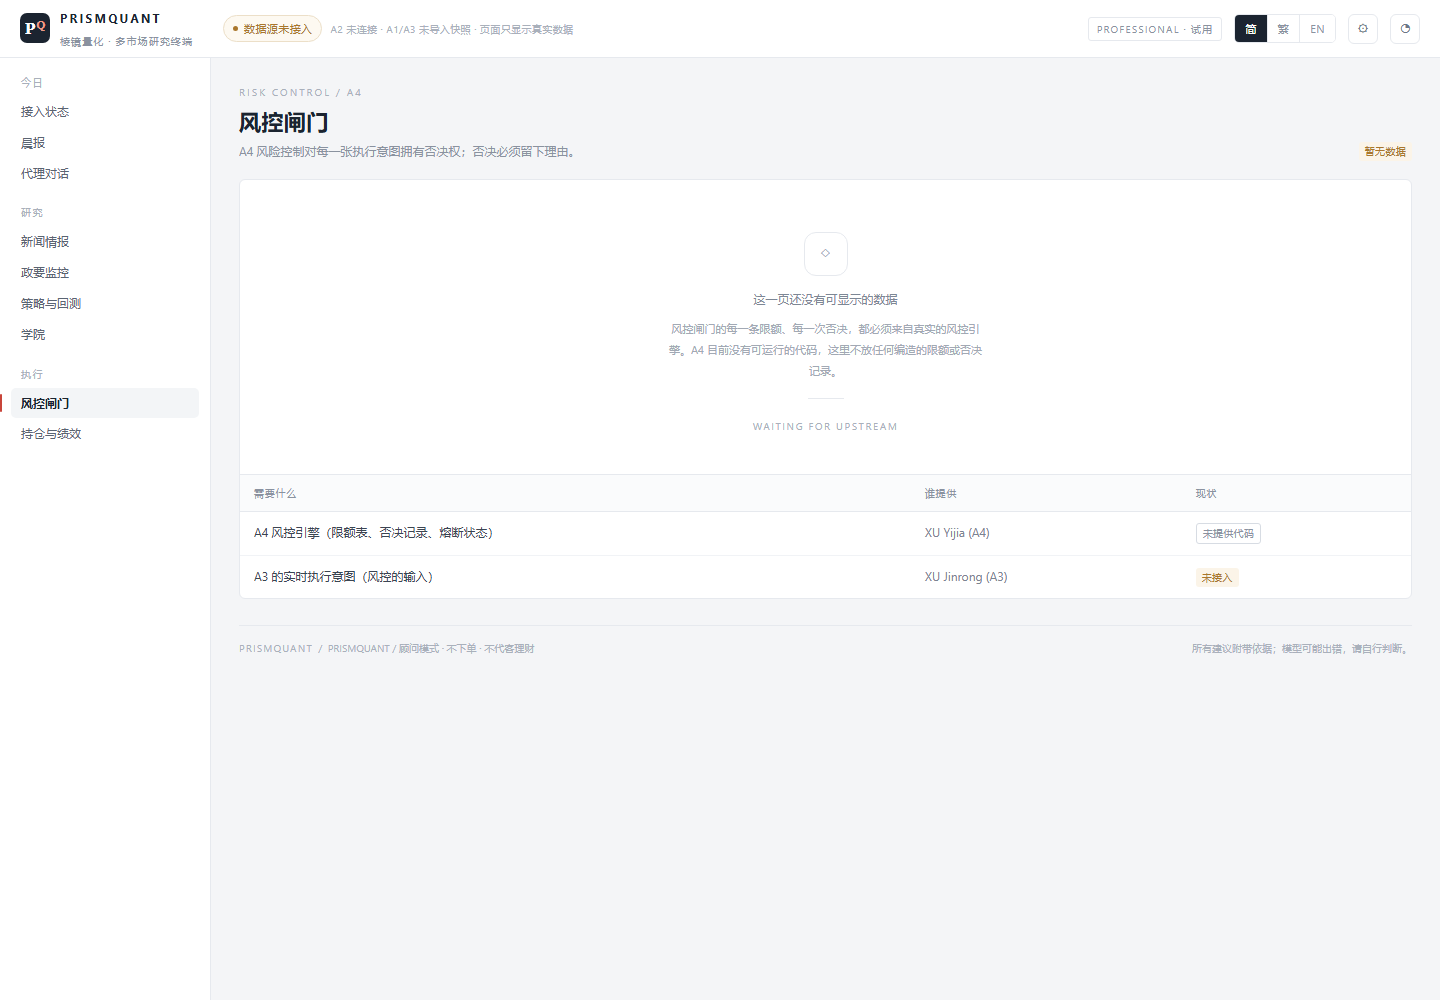
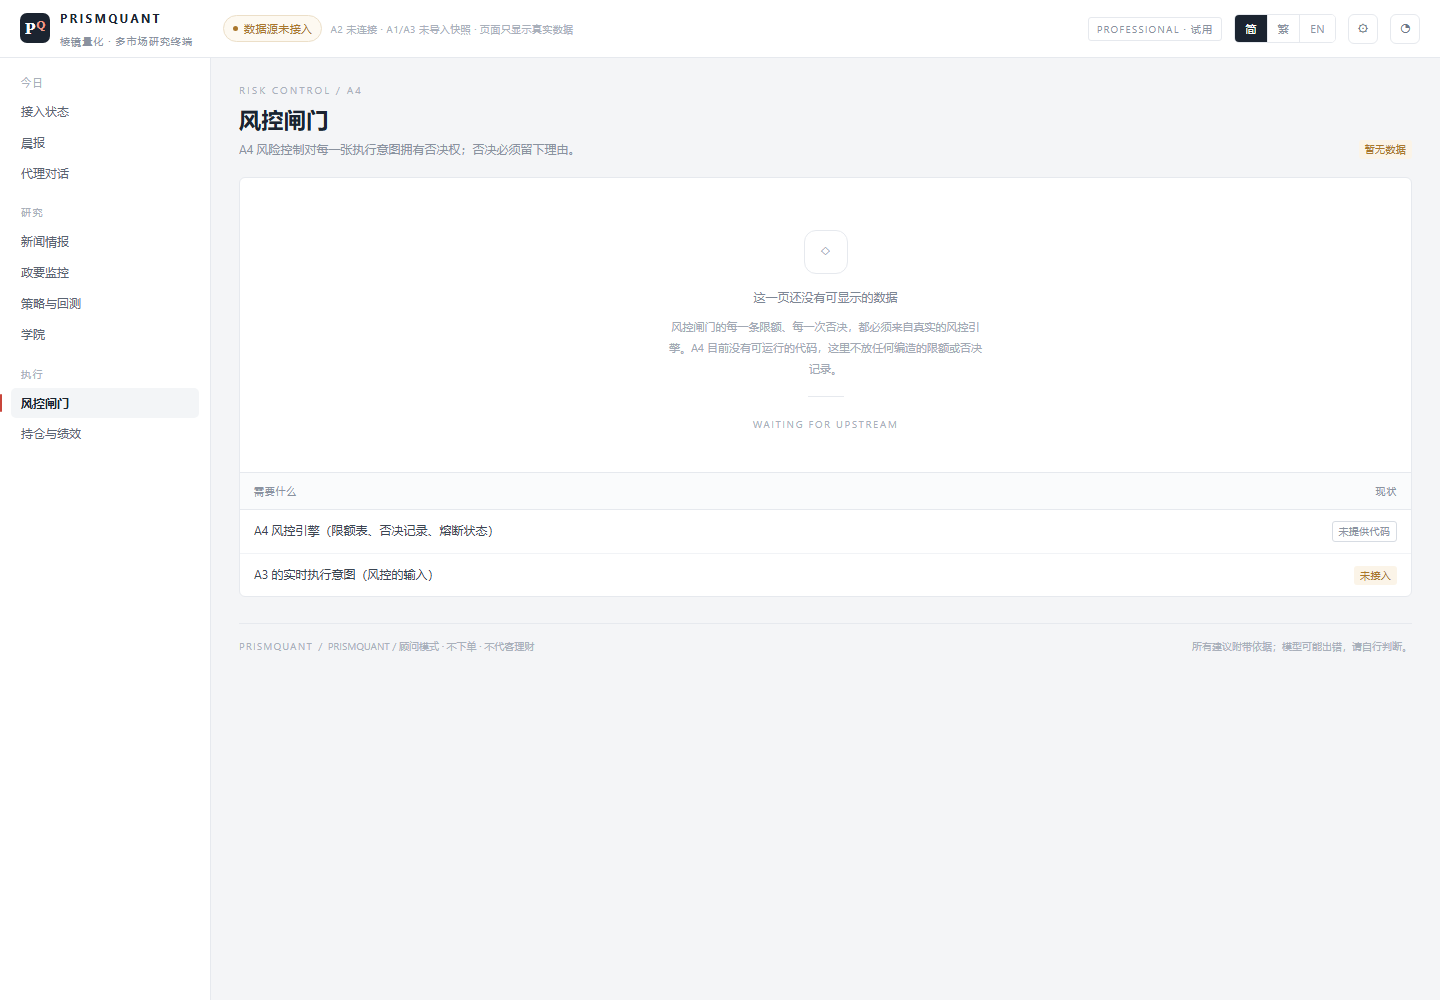
ux: drop owner names from empty states
The team split is not settled, so the empty-state table no longer attributes
each missing piece to a person. It is now two columns: what is needed, and its
current status.

diff --git a/index.html b/index.html
@@ -874,8 +874,8 @@ function stateDot(s) {
 /* ============================ empty / overview ============================ */
 function emptyPage(eyebrow, title, sub, rows, note) {
   const table = `<table class="t" style="border-top:1px solid var(--line)">
-      <thead><tr><th>${isZh() ? '需要什么' : 'Needed'}</th><th>${isZh() ? '谁提供' : 'Owner'}</th><th>${isZh() ? '现状' : 'Status'}</th></tr></thead>
-      <tbody>${rows.map(r => `<tr><td style="color:#3b4552">${r[0]}</td><td style="color:#7b8492">${r[1]}</td><td class="w">${r[2]}</td></tr>`).join('')}</tbody>
+      <thead><tr><th>${isZh() ? '需要什么' : 'Needed'}</th><th style="text-align:right">${isZh() ? '现状' : 'Status'}</th></tr></thead>
+      <tbody>${rows.map(r => `<tr><td style="color:#3b4552">${r[0]}</td><td class="w" style="text-align:right">${r[r.length - 1]}</td></tr>`).join('')}</tbody>
     </table>`;
   return pageHead(eyebrow, title, sub, `<span class="tag amber">${isZh() ? '暂无数据' : 'No data'}</span>`)
     + `<section class="panel"><div class="panel-b" style="padding:0">
@@ -898,8 +898,8 @@ function viewOverview() {
     ['A1', isZh() ? '新闻代理' : 'News', 'news-main · Streamlit', isZh() ? '无 HTTP 接口' : 'no HTTP API', LIVE.news ? ok : no],
     ['A2', isZh() ? '政治监控' : 'Political', 'political-monitor · FastAPI', isZh() ? '需 PostgreSQL + 采集' : 'needs PG', A2.live ? ok : no],
     ['A3', isZh() ? '执行代理' : 'Execution', 'ndxbots · CLI', isZh() ? '回测需五分钟数据' : 'needs 5-min bars', LIVE.bt ? ok : no],
-    ['A4', isZh() ? '风险控制' : 'Risk', '—', isZh() ? '未提供代码' : 'not provided', na],
-    ['A5', isZh() ? '指挥官' : 'Commander', '—', isZh() ? '未提供代码' : 'not provided', na]
+    ['A4', isZh() ? '风险控制' : 'Risk', isZh() ? '未提供代码' : 'not provided', na],
+    ['A5', isZh() ? '指挥官' : 'Commander', isZh() ? '未提供代码' : 'not provided', na]
   ];
   const rows = agents.map(a => `<div class="agent-row">
       <span class="agent-id">${a[0]}</span>
@@ -940,9 +940,9 @@ function viewOverview() {
 
 function viewBriefing() {
   return emptyPage('MORNING BRIEF / A5', t('page.briefing.t'), t('page.briefing.s'), [
-    [isZh() ? 'A5 指挥官产出的一份晨报（run 记录 + 四张意图）' : 'One A5 briefing run', 'AU Ka Chai (A5)', '<span class="tag outline">' + (isZh() ? '未提供代码' : 'no code') + '</span>'],
-    [isZh() ? 'A4 风控闸门状态与当日干预记录' : 'A4 gate state and interventions', 'XU Yijia (A4)', '<span class="tag outline">' + (isZh() ? '未提供代码' : 'no code') + '</span>'],
-    [isZh() ? 'A1/A3 的输入（事件簇、执行意图）' : 'A1/A3 inputs', 'XU Yijia / XU Jinrong', LIVE.news || LIVE.bt ? '<span class="tag green">部分就绪</span>' : '<span class="tag amber">未接入</span>']
+    [isZh() ? 'A5 指挥官产出的一份晨报（run 记录 + 四张意图）' : 'One A5 briefing run', '<span class="tag outline">' + (isZh() ? '未提供代码' : 'no code') + '</span>'],
+    [isZh() ? 'A4 风控闸门状态与当日干预记录' : 'A4 gate state and interventions', '<span class="tag outline">' + (isZh() ? '未提供代码' : 'no code') + '</span>'],
+    [isZh() ? 'A1/A3 的输入（事件簇、执行意图）' : 'A1/A3 inputs', LIVE.news || LIVE.bt ? '<span class="tag green">部分就绪</span>' : '<span class="tag amber">未接入</span>']
   ], isZh()
     ? '晨报由 A5 指挥官聚合 A1–A4 的产出生成。A5 目前没有可运行的代码，所以这里不放任何编造的摘要或推荐。'
     : 'The briefing is produced by A5 from A1–A4 output. A5 has no runnable code yet, so no summary is invented here.');
@@ -989,8 +989,8 @@ function liveNewsStats(items) {
 }
 function viewNews() {
   if (!LIVE.news) return emptyPage('NEWS INTELLIGENCE / A1', t('page.news.t'), t('page.news.s'), [
-    [isZh() ? 'A1 导出的新闻快照 <code>data/news.json</code>' : 'A1 snapshot <code>data/news.json</code>', 'XU Yijia (A1)', '<span class="tag amber">未导入</span>'],
-    [isZh() ? '或 A1 的只读 HTTP 接口' : 'or a read-only endpoint', 'XU Yijia (A1)', '<span class="tag outline">不存在</span>']
+    [isZh() ? 'A1 导出的新闻快照 <code>data/news.json</code>' : 'A1 snapshot <code>data/news.json</code>', '<span class="tag amber">未导入</span>'],
+    [isZh() ? '或 A1 的只读 HTTP 接口' : 'or a read-only endpoint', '<span class="tag outline">不存在</span>']
   ], isZh()
     ? '新闻来自 A1（news-main：Streamlit + SQLite）。它没有 HTTP 接口，所以先用 <code>tools/export.py</code> 把数据库导出成 JSON，或直接跑 <code>tools/api_server.py</code>。'
     : 'News lives in A1 (Streamlit + SQLite) with no HTTP API. Export it with <code>tools/export.py</code>, or run <code>tools/api_server.py</code>.');
@@ -1134,8 +1134,8 @@ function verTag(v) {
 
 function viewPolitical() {
   if (!A2.live) return emptyPage('POLITICAL MONITOR / A2', t('page.political.t'), t('page.political.s'), [
-    [isZh() ? '运行中的 A2 后端（FastAPI，默认 :8000）' : 'A2 backend on :8000', 'XU Yijia (A2)', '<span class="tag amber">未连接</span>'],
-    [isZh() ? 'PostgreSQL 数据库 + 一次采集' : 'PostgreSQL + one collection run', 'XU Yijia (A2)', '<span class="tag amber">待运行</span>']
+    [isZh() ? '运行中的 A2 后端（FastAPI，默认 :8000）' : 'A2 backend on :8000', '<span class="tag amber">未连接</span>'],
+    [isZh() ? 'PostgreSQL 数据库 + 一次采集' : 'PostgreSQL + one collection run', '<span class="tag amber">待运行</span>']
   ], isZh()
     ? '这一页直接读 A2 的 <code>/api/v1/*</code>，不内置任何示例发言。启动后端后点右上角「连接设置」或按刷新即可。<br>启动方式：<code>python -X utf8 -m app</code>（在 political-monitor 目录）。'
     : "This page reads A2's <code>/api/v1/*</code> directly and ships no sample statements. Start the backend, then refresh.");
@@ -1290,11 +1290,11 @@ function btSource() {
 }
 function viewStrategy() {
   if (!LIVE.bt) return emptyPage('STRATEGY ENGINE / A3', t('page.strategy.t'), t('page.strategy.s'), [
-    [isZh() ? 'A3 导出的回测快照 <code>data/backtests.json</code>' : 'A3 snapshot <code>data/backtests.json</code>', 'XU Jinrong (A3)', '<span class="tag amber">未导入</span>'],
-    [isZh() ? '完整五分钟 K 线（回测必需）' : 'native 5-min bars', 'XU Jinrong (A3)', '<span class="tag outline">额度不足</span>']
+    [isZh() ? 'A3 导出的回测快照 <code>data/backtests.json</code>' : 'A3 snapshot <code>data/backtests.json</code>', '<span class="tag amber">未导入</span>'],
+    [isZh() ? '完整五分钟 K 线（回测必需）' : 'native 5-min bars', '<span class="tag outline">额度不足</span>']
   ], isZh()
-    ? '回测需要原生五分钟 K 线，富途接口按账号额度计费，一次完整回测远超现有额度。请 XU Jinrong 提供 <code>equity.csv</code>，或用 <code>tools/export.py backtest</code> 导出。'
-    : 'The backtest needs native 5-minute bars and exceeds the current quote quota. Ask XU Jinrong for <code>equity.csv</code>.');
+    ? '回测需要原生五分钟 K 线，富途接口按账号额度计费，一次完整回测远超现有额度。需要 A3 的 <code>equity.csv</code>，或用 <code>tools/export.py backtest</code> 导出。'
+    : 'The backtest needs native 5-minute bars and exceeds the current quote quota. A3 needs to provide <code>equity.csv</code>.');
   const live = LIVE.bt.items[0];
   const STRATS = [{
     id: 'MF', name: live.name || (isZh() ? '回测' : 'Backtest'), en: '', mkt: live.market || '',
@@ -1392,8 +1392,8 @@ function viewStrategy() {
 /* ============================ risk ============================ */
 function viewRisk() {
   return emptyPage('RISK CONTROL / A4', t('page.risk.t'), t('page.risk.s'), [
-    [isZh() ? 'A4 风控引擎（限额表、否决记录、熔断状态）' : 'A4 risk engine', 'XU Yijia (A4)', '<span class="tag outline">' + (isZh() ? '未提供代码' : 'no code') + '</span>'],
-    [isZh() ? 'A3 的实时执行意图（风控的输入）' : 'A3 intents (the input)', 'XU Jinrong (A3)', '<span class="tag amber">未接入</span>']
+    [isZh() ? 'A4 风控引擎（限额表、否决记录、熔断状态）' : 'A4 risk engine', '<span class="tag outline">' + (isZh() ? '未提供代码' : 'no code') + '</span>'],
+    [isZh() ? 'A3 的实时执行意图（风控的输入）' : 'A3 intents (the input)', '<span class="tag amber">未接入</span>']
   ], isZh()
     ? '风控闸门的每一条限额、每一次否决，都必须来自真实的风控引擎。A4 目前没有可运行的代码，这里不放任何编造的限额或否决记录。'
     : 'Every limit and every veto must come from a real risk engine. A4 has no runnable code, so nothing is invented here.');
@@ -1406,8 +1406,8 @@ function chatInit() {
 }
 function viewChat() {
   return emptyPage('COMMANDER / A5', t('page.chat.t'), t('page.chat.s'), [
-    [isZh() ? 'A5 指挥官对话接口（含证据链）' : 'A5 commander endpoint', 'AU Ka Chai (A5)', '<span class="tag outline">' + (isZh() ? '未提供代码' : 'no code') + '</span>'],
-    [isZh() ? 'A1–A4 的产出作为上下文' : 'A1–A4 output as context', '—', '<span class="tag amber">未接入</span>']
+    [isZh() ? 'A5 指挥官对话接口（含证据链）' : 'A5 commander endpoint', '<span class="tag outline">' + (isZh() ? '未提供代码' : 'no code') + '</span>'],
+    [isZh() ? 'A1–A4 的产出作为上下文' : 'A1–A4 output as context', '<span class="tag amber">未接入</span>']
   ], isZh()
     ? '对话的每一句回答都必须能追溯到真实来源。没有 A5 与 A1–A4 的接入，这里不会用预设答案冒充 AI 回复。'
     : 'Every answer must trace back to real sources. Without A5 and A1–A4 connected, no canned replies are shown.');
@@ -1470,8 +1470,8 @@ function a5Reply(q) {
 /* ============================ portfolio ============================ */
 function viewPortfolio() {
   return emptyPage('PORTFOLIO / F-09', t('page.portfolio.t'), t('page.portfolio.s'), [
-    [isZh() ? '模拟账户持仓与成交记录' : 'Simulated positions and fills', 'XU Jinrong (A3)', '<span class="tag amber">未接入</span>'],
-    [isZh() ? '或券商沙盒账户（Futu SIMULATE）' : 'or a broker sandbox account', '—', '<span class="tag outline">未绑定</span>']
+    [isZh() ? '模拟账户持仓与成交记录' : 'Simulated positions and fills', '<span class="tag amber">未接入</span>'],
+    [isZh() ? '或券商沙盒账户（Futu SIMULATE）' : 'or a broker sandbox account', '<span class="tag outline">未绑定</span>']
   ], isZh()
     ? '持仓与盈亏必须来自真实账户或模拟撮合。没有接入之前，这里不放虚构的持仓表。'
     : 'Positions and P&L must come from a real or simulated account. Nothing is fabricated here.');

diff --git a/src/p4a_views.js b/src/p4a_views.js
@@ -103,8 +103,8 @@ function stateDot(s) {
 /* ============================ empty / overview ============================ */
 function emptyPage(eyebrow, title, sub, rows, note) {
   const table = `<table class="t" style="border-top:1px solid var(--line)">
-      <thead><tr><th>${isZh() ? '需要什么' : 'Needed'}</th><th>${isZh() ? '谁提供' : 'Owner'}</th><th>${isZh() ? '现状' : 'Status'}</th></tr></thead>
-      <tbody>${rows.map(r => `<tr><td style="color:#3b4552">${r[0]}</td><td style="color:#7b8492">${r[1]}</td><td class="w">${r[2]}</td></tr>`).join('')}</tbody>
+      <thead><tr><th>${isZh() ? '需要什么' : 'Needed'}</th><th style="text-align:right">${isZh() ? '现状' : 'Status'}</th></tr></thead>
+      <tbody>${rows.map(r => `<tr><td style="color:#3b4552">${r[0]}</td><td class="w" style="text-align:right">${r[r.length - 1]}</td></tr>`).join('')}</tbody>
     </table>`;
   return pageHead(eyebrow, title, sub, `<span class="tag amber">${isZh() ? '暂无数据' : 'No data'}</span>`)
     + `<section class="panel"><div class="panel-b" style="padding:0">
@@ -127,8 +127,8 @@ function viewOverview() {
     ['A1', isZh() ? '新闻代理' : 'News', 'news-main · Streamlit', isZh() ? '无 HTTP 接口' : 'no HTTP API', LIVE.news ? ok : no],
     ['A2', isZh() ? '政治监控' : 'Political', 'political-monitor · FastAPI', isZh() ? '需 PostgreSQL + 采集' : 'needs PG', A2.live ? ok : no],
     ['A3', isZh() ? '执行代理' : 'Execution', 'ndxbots · CLI', isZh() ? '回测需五分钟数据' : 'needs 5-min bars', LIVE.bt ? ok : no],
-    ['A4', isZh() ? '风险控制' : 'Risk', '—', isZh() ? '未提供代码' : 'not provided', na],
-    ['A5', isZh() ? '指挥官' : 'Commander', '—', isZh() ? '未提供代码' : 'not provided', na]
+    ['A4', isZh() ? '风险控制' : 'Risk', isZh() ? '未提供代码' : 'not provided', na],
+    ['A5', isZh() ? '指挥官' : 'Commander', isZh() ? '未提供代码' : 'not provided', na]
   ];
   const rows = agents.map(a => `<div class="agent-row">
       <span class="agent-id">${a[0]}</span>
@@ -169,9 +169,9 @@ function viewOverview() {
 
 function viewBriefing() {
   return emptyPage('MORNING BRIEF / A5', t('page.briefing.t'), t('page.briefing.s'), [
-    [isZh() ? 'A5 指挥官产出的一份晨报（run 记录 + 四张意图）' : 'One A5 briefing run', 'AU Ka Chai (A5)', '<span class="tag outline">' + (isZh() ? '未提供代码' : 'no code') + '</span>'],
-    [isZh() ? 'A4 风控闸门状态与当日干预记录' : 'A4 gate state and interventions', 'XU Yijia (A4)', '<span class="tag outline">' + (isZh() ? '未提供代码' : 'no code') + '</span>'],
-    [isZh() ? 'A1/A3 的输入（事件簇、执行意图）' : 'A1/A3 inputs', 'XU Yijia / XU Jinrong', LIVE.news || LIVE.bt ? '<span class="tag green">部分就绪</span>' : '<span class="tag amber">未接入</span>']
+    [isZh() ? 'A5 指挥官产出的一份晨报（run 记录 + 四张意图）' : 'One A5 briefing run', '<span class="tag outline">' + (isZh() ? '未提供代码' : 'no code') + '</span>'],
+    [isZh() ? 'A4 风控闸门状态与当日干预记录' : 'A4 gate state and interventions', '<span class="tag outline">' + (isZh() ? '未提供代码' : 'no code') + '</span>'],
+    [isZh() ? 'A1/A3 的输入（事件簇、执行意图）' : 'A1/A3 inputs', LIVE.news || LIVE.bt ? '<span class="tag green">部分就绪</span>' : '<span class="tag amber">未接入</span>']
   ], isZh()
     ? '晨报由 A5 指挥官聚合 A1–A4 的产出生成。A5 目前没有可运行的代码，所以这里不放任何编造的摘要或推荐。'
     : 'The briefing is produced by A5 from A1–A4 output. A5 has no runnable code yet, so no summary is invented here.');
@@ -218,8 +218,8 @@ function liveNewsStats(items) {
 }
 function viewNews() {
   if (!LIVE.news) return emptyPage('NEWS INTELLIGENCE / A1', t('page.news.t'), t('page.news.s'), [
-    [isZh() ? 'A1 导出的新闻快照 <code>data/news.json</code>' : 'A1 snapshot <code>data/news.json</code>', 'XU Yijia (A1)', '<span class="tag amber">未导入</span>'],
-    [isZh() ? '或 A1 的只读 HTTP 接口' : 'or a read-only endpoint', 'XU Yijia (A1)', '<span class="tag outline">不存在</span>']
+    [isZh() ? 'A1 导出的新闻快照 <code>data/news.json</code>' : 'A1 snapshot <code>data/news.json</code>', '<span class="tag amber">未导入</span>'],
+    [isZh() ? '或 A1 的只读 HTTP 接口' : 'or a read-only endpoint', '<span class="tag outline">不存在</span>']
   ], isZh()
     ? '新闻来自 A1（news-main：Streamlit + SQLite）。它没有 HTTP 接口，所以先用 <code>tools/export.py</code> 把数据库导出成 JSON，或直接跑 <code>tools/api_server.py</code>。'
     : 'News lives in A1 (Streamlit + SQLite) with no HTTP API. Export it with <code>tools/export.py</code>, or run <code>tools/api_server.py</code>.');

diff --git a/src/p4c_risk_chat_pf.js b/src/p4c_risk_chat_pf.js
@@ -2,8 +2,8 @@
 /* ============================ risk ============================ */
 function viewRisk() {
   return emptyPage('RISK CONTROL / A4', t('page.risk.t'), t('page.risk.s'), [
-    [isZh() ? 'A4 风控引擎（限额表、否决记录、熔断状态）' : 'A4 risk engine', 'XU Yijia (A4)', '<span class="tag outline">' + (isZh() ? '未提供代码' : 'no code') + '</span>'],
-    [isZh() ? 'A3 的实时执行意图（风控的输入）' : 'A3 intents (the input)', 'XU Jinrong (A3)', '<span class="tag amber">未接入</span>']
+    [isZh() ? 'A4 风控引擎（限额表、否决记录、熔断状态）' : 'A4 risk engine', '<span class="tag outline">' + (isZh() ? '未提供代码' : 'no code') + '</span>'],
+    [isZh() ? 'A3 的实时执行意图（风控的输入）' : 'A3 intents (the input)', '<span class="tag amber">未接入</span>']
   ], isZh()
     ? '风控闸门的每一条限额、每一次否决，都必须来自真实的风控引擎。A4 目前没有可运行的代码，这里不放任何编造的限额或否决记录。'
     : 'Every limit and every veto must come from a real risk engine. A4 has no runnable code, so nothing is invented here.');
@@ -16,8 +16,8 @@ function chatInit() {
 }
 function viewChat() {
   return emptyPage('COMMANDER / A5', t('page.chat.t'), t('page.chat.s'), [
-    [isZh() ? 'A5 指挥官对话接口（含证据链）' : 'A5 commander endpoint', 'AU Ka Chai (A5)', '<span class="tag outline">' + (isZh() ? '未提供代码' : 'no code') + '</span>'],
-    [isZh() ? 'A1–A4 的产出作为上下文' : 'A1–A4 output as context', '—', '<span class="tag amber">未接入</span>']
+    [isZh() ? 'A5 指挥官对话接口（含证据链）' : 'A5 commander endpoint', '<span class="tag outline">' + (isZh() ? '未提供代码' : 'no code') + '</span>'],
+    [isZh() ? 'A1–A4 的产出作为上下文' : 'A1–A4 output as context', '<span class="tag amber">未接入</span>']
   ], isZh()
     ? '对话的每一句回答都必须能追溯到真实来源。没有 A5 与 A1–A4 的接入，这里不会用预设答案冒充 AI 回复。'
     : 'Every answer must trace back to real sources. Without A5 and A1–A4 connected, no canned replies are shown.');
@@ -80,8 +80,8 @@ function a5Reply(q) {
 /* ============================ portfolio ============================ */
 function viewPortfolio() {
   return emptyPage('PORTFOLIO / F-09', t('page.portfolio.t'), t('page.portfolio.s'), [
-    [isZh() ? '模拟账户持仓与成交记录' : 'Simulated positions and fills', 'XU Jinrong (A3)', '<span class="tag amber">未接入</span>'],
-    [isZh() ? '或券商沙盒账户（Futu SIMULATE）' : 'or a broker sandbox account', '—', '<span class="tag outline">未绑定</span>']
+    [isZh() ? '模拟账户持仓与成交记录' : 'Simulated positions and fills', '<span class="tag amber">未接入</span>'],
+    [isZh() ? '或券商沙盒账户（Futu SIMULATE）' : 'or a broker sandbox account', '<span class="tag outline">未绑定</span>']
   ], isZh()
     ? '持仓与盈亏必须来自真实账户或模拟撮合。没有接入之前，这里不放虚构的持仓表。'
     : 'Positions and P&L must come from a real or simulated account. Nothing is fabricated here.');

diff --git a/src/p4b_political_strategy.js b/src/p4b_political_strategy.js
@@ -59,8 +59,8 @@ function verTag(v) {
 
 function viewPolitical() {
   if (!A2.live) return emptyPage('POLITICAL MONITOR / A2', t('page.political.t'), t('page.political.s'), [
-    [isZh() ? '运行中的 A2 后端（FastAPI，默认 :8000）' : 'A2 backend on :8000', 'XU Yijia (A2)', '<span class="tag amber">未连接</span>'],
-    [isZh() ? 'PostgreSQL 数据库 + 一次采集' : 'PostgreSQL + one collection run', 'XU Yijia (A2)', '<span class="tag amber">待运行</span>']
+    [isZh() ? '运行中的 A2 后端（FastAPI，默认 :8000）' : 'A2 backend on :8000', '<span class="tag amber">未连接</span>'],
+    [isZh() ? 'PostgreSQL 数据库 + 一次采集' : 'PostgreSQL + one collection run', '<span class="tag amber">待运行</span>']
   ], isZh()
     ? '这一页直接读 A2 的 <code>/api/v1/*</code>，不内置任何示例发言。启动后端后点右上角「连接设置」或按刷新即可。<br>启动方式：<code>python -X utf8 -m app</code>（在 political-monitor 目录）。'
     : "This page reads A2's <code>/api/v1/*</code> directly and ships no sample statements. Start the backend, then refresh.");
@@ -215,11 +215,11 @@ function btSource() {
 }
 function viewStrategy() {
   if (!LIVE.bt) return emptyPage('STRATEGY ENGINE / A3', t('page.strategy.t'), t('page.strategy.s'), [
-    [isZh() ? 'A3 导出的回测快照 <code>data/backtests.json</code>' : 'A3 snapshot <code>data/backtests.json</code>', 'XU Jinrong (A3)', '<span class="tag amber">未导入</span>'],
-    [isZh() ? '完整五分钟 K 线（回测必需）' : 'native 5-min bars', 'XU Jinrong (A3)', '<span class="tag outline">额度不足</span>']
+    [isZh() ? 'A3 导出的回测快照 <code>data/backtests.json</code>' : 'A3 snapshot <code>data/backtests.json</code>', '<span class="tag amber">未导入</span>'],
+    [isZh() ? '完整五分钟 K 线（回测必需）' : 'native 5-min bars', '<span class="tag outline">额度不足</span>']
   ], isZh()
-    ? '回测需要原生五分钟 K 线，富途接口按账号额度计费，一次完整回测远超现有额度。请 XU Jinrong 提供 <code>equity.csv</code>，或用 <code>tools/export.py backtest</code> 导出。'
-    : 'The backtest needs native 5-minute bars and exceeds the current quote quota. Ask XU Jinrong for <code>equity.csv</code>.');
+    ? '回测需要原生五分钟 K 线，富途接口按账号额度计费，一次完整回测远超现有额度。需要 A3 的 <code>equity.csv</code>，或用 <code>tools/export.py backtest</code> 导出。'
+    : 'The backtest needs native 5-minute bars and exceeds the current quote quota. A3 needs to provide <code>equity.csv</code>.');
   const live = LIVE.bt.items[0];
   const STRATS = [{
     id: 'MF', name: live.name || (isZh() ? '回测' : 'Backtest'), en: '', mkt: live.market || '',
